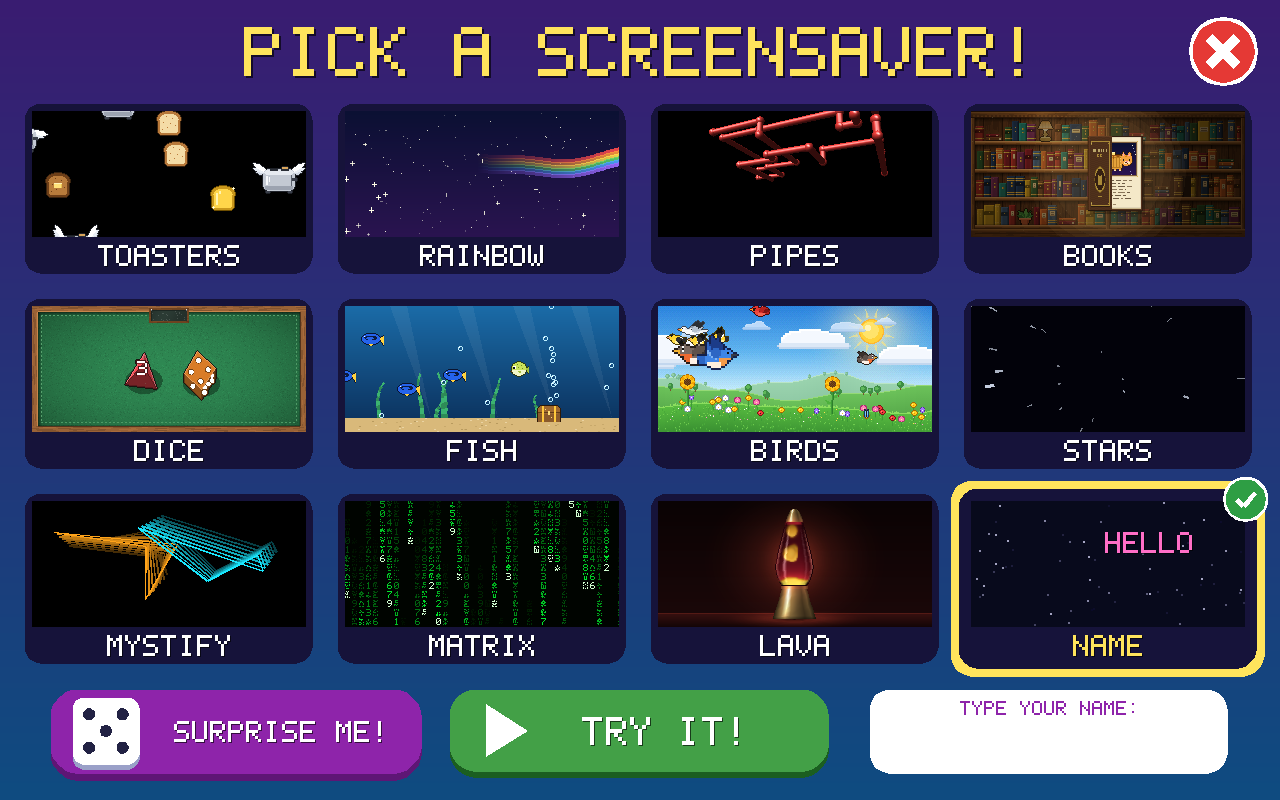
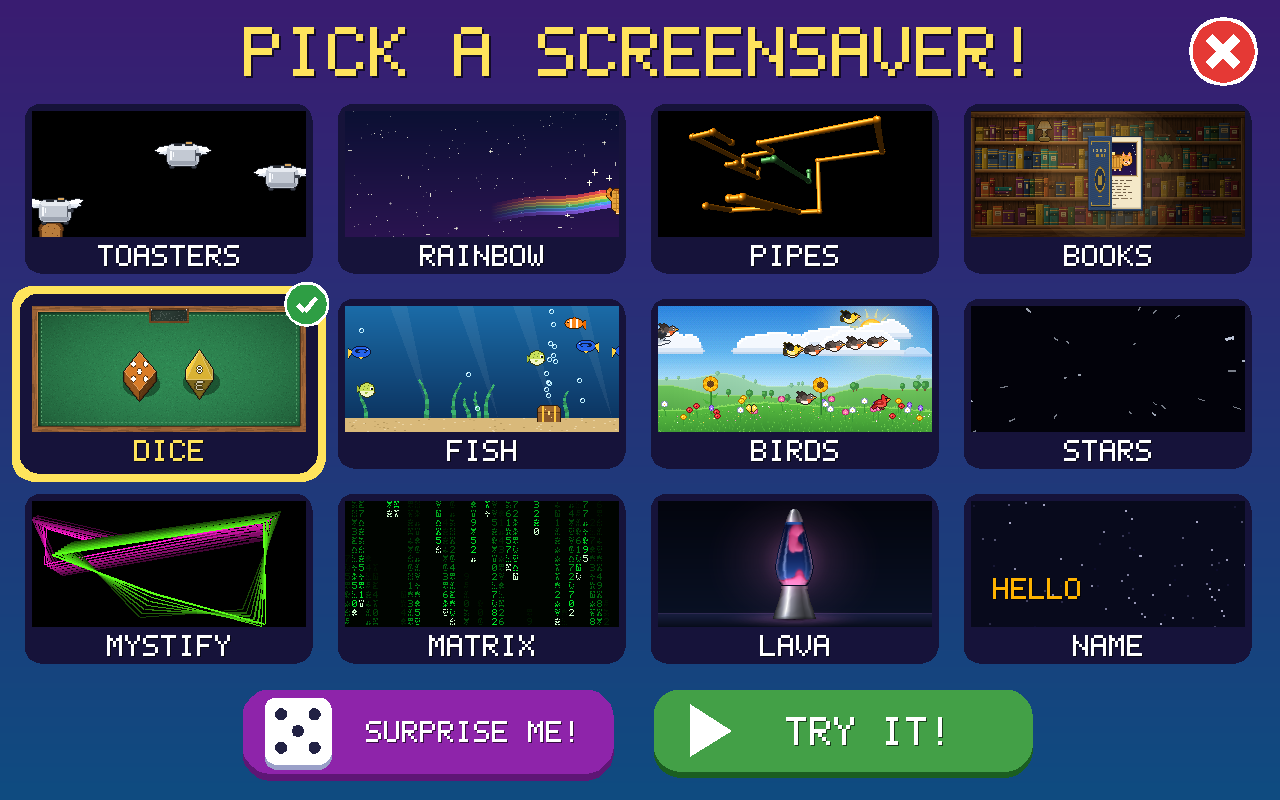
DICE: numbers and pips printed on the faces, numbered like real dice
Numbers and pips used to be flat stickers drawn over the die. Now each face
maps its print through its own tilted axes, so it foreshortens and tumbles with
the die, and fades into the face colour as the face turns away instead of
popping in and out. A die at rest turns its number exactly upright and draws it
as crisp whole pixels.

Faces are numbered like real dice: opposite faces add up to sides + 1.

The d4 sits out: a real d4 prints three numbers per face, two of them sideways
or upside down, and at this pixel size those read as squiggles.

diff --git a/src/savers/dice.c b/src/savers/dice.c
@@ -1,4 +1,4 @@
-/* DICE: a felt dice tray with true 3D polyhedral dice (d4, d6, d8, d10, d12, d20).
+/* DICE: a felt dice tray with true 3D polyhedral dice (d6, d8, d10, d12, d20).
    The dice tumble and bounce in 3D across the felt one at a time, each landing
    cleanly to show its roll. Then, with deliberate pauses so a six-year-old has time
    to calculate and frontrun the math, each result flies up to the chalkboard.
@@ -27,13 +27,15 @@ static const uint32_t BODY[KINDS] = { 0xF0464E, 0xFF9230, 0xFFD23C, 0x26C6BE, 0x
 static const uint32_t CONFETTI[6] = { 0xFF5A6E, 0xFFD23C, 0x5BD46B, 0x4DA6FF, 0xC98BFF, 0xFFFFFF };
 static const float BOUNCE[NB] = { 0.28f, 0.52f, 0.70f, 0.83f, 0.93f };
 
-/* Handfuls of dice, prominently featuring d4 and varying sets. */
+/* Handfuls of dice (the first is always the first roll). The d4 still has a model but
+   sits out: a real d4 prints three numbers per face, two of them sideways or upside
+   down, and at this pixel size those read as squiggles. */
 static const int SETS[][MAXDICE + 1] = {
-    { 2, D4, D6 }, { 1, D20 }, { 2, D6, D6 }, { 3, D4, D6, D8 },
-    { 1, D4 }, { 2, D4, D4 }, { 2, D8, D12 }, { 1, D12 },
+    { 2, D6, D8 }, { 1, D20 }, { 2, D6, D6 }, { 3, D6, D8, D10 },
+    { 1, D6 }, { 2, D8, D8 }, { 2, D8, D12 }, { 1, D12 },
     { 2, D10, D10 }, { 1, D20 }, { 2, D6, D20 }, { 1, D10 },
     { 3, D6, D6, D6 }, { 3, D6, D8, D20 }, { 2, D20, D20 },
-    { 6, D4, D6, D8, D10, D12, D20 }
+    { 5, D6, D8, D10, D12, D20 }
 };
 #define NSETS ((int)(sizeof SETS / sizeof SETS[0]))
 
@@ -150,6 +152,8 @@ typedef struct {
     int idx[MAX_FACE_VERTS];
     int value;
     Vec3 normal;
+    Vec3 c, up, right;   /* centre and in-plane axes the face's number or pips are printed on */
+    float ri;            /* distance from the centre to the nearest edge */
 } PolyFace;
 
 typedef struct {
@@ -178,6 +182,30 @@ static void init_poly_mesh(PolyMesh *m) {
             n = v_scale(n, -1.0f);
         }
         fc->normal = n;
+        fc->c = c;
+        fc->up = v_norm(v_sub(m->verts[fc->idx[0]], c));
+        fc->right = v_cross(n, fc->up);
+        fc->ri = 1e9f;
+        for (int i = 0; i < fc->nverts; i++) {
+            Vec3 a = m->verts[fc->idx[i]], b = m->verts[fc->idx[(i + 1) % fc->nverts]];
+            float dist = v_len(v_cross(v_norm(v_sub(b, a)), v_sub(c, a)));
+            if (dist < fc->ri) fc->ri = dist;
+        }
+    }
+}
+
+/* Numbers the faces like real dice: opposite faces add up to sides + 1 (7 on a d6,
+   21 on a d20). Called after init_poly_mesh, which knows the face normals. */
+static void number_opposites(PolyMesh *m) {
+    int next = 1, done[MAX_POLY_FACES] = { 0 };
+    for (int f = 0; f < m->nfaces; f++) {
+        if (done[f]) continue;
+        int o = f;
+        for (int g = 0; g < m->nfaces; g++)
+            if (v_dot(m->faces[g].normal, m->faces[f].normal) < v_dot(m->faces[o].normal, m->faces[f].normal)) o = g;
+        m->faces[f].value = next;
+        m->faces[o].value = m->nfaces + 1 - next++;
+        done[f] = done[o] = 1;
     }
 }
 
@@ -248,6 +276,7 @@ static PolyMesh build_d8(void) {
         for (int j = 0; j < 3; j++) m.faces[i].idx[j] = fidx[i][j];
     }
     init_poly_mesh(&m);
+    number_opposites(&m);
     return m;
 }
 
@@ -268,10 +297,11 @@ static PolyMesh build_d10(void) {
     for (int k = 0; k < 5; k++) {
         int k1 = (k + 1) % 5;
         PolyFace *top = &m.faces[k * 2], *bot = &m.faces[k * 2 + 1];
-        *top = (PolyFace){ 4, { 0, 2 + k, 7 + k, 2 + k1 }, 2 * k + 1, {0} };
-        *bot = (PolyFace){ 4, { 1, 7 + k, 2 + k1, 7 + k1 }, 2 * k + 2, {0} };
+        *top = (PolyFace){ .nverts = 4, .idx = { 0, 2 + k, 7 + k, 2 + k1 }, .value = 2 * k + 1 };
+        *bot = (PolyFace){ .nverts = 4, .idx = { 1, 7 + k, 2 + k1, 7 + k1 }, .value = 2 * k + 2 };
     }
     init_poly_mesh(&m);
+    number_opposites(&m);
     return m;
 }
 
@@ -337,6 +367,7 @@ static PolyMesh build_d12(void) {
         for (int i = 0; i < 5; i++) m.faces[f].idx[i] = cverts[i];
     }
     init_poly_mesh(&m);
+    number_opposites(&m);
     return m;
 }
 
@@ -379,6 +410,7 @@ static PolyMesh build_d20(void) {
         for (int j = 0; j < 3; j++) m.faces[i].idx[j] = fidx[i][j];
     }
     init_poly_mesh(&m);
+    number_opposites(&m);
     return m;
 }
 
@@ -473,35 +505,13 @@ static void glyphs(Canvas *c, const char *s, int x, int y, int sc, uint32_t col)
 
 static int glyphs_w(const char *s, int sc) { int n = (int)strlen(s); return n ? n * (FONT_W + 1) * sc - sc : 0; }
 
-static void number(Canvas *c, int v, float cx, float cy, int sc, uint32_t base, uint32_t ink) {
-    char s[4];
-    snprintf(s, sizeof s, "%d", v);
-    int w = glyphs_w(s, sc), x = (int)floorf(cx - w / 2.0f + 0.5f), y = (int)floorf(cy - FONT_H * sc / 2.0f + 0.5f);
-    uint32_t dark = rgb(shade(base, 0.28f));
-    int bar = v == 6 || v == 9, by = y + FONT_H * sc + 1;
-    for (int dy = -1; dy <= 1; dy++)
-        for (int dx = -1; dx <= 1; dx++) {
-            glyphs(c, s, x + dx, y + dy, sc, dark);
-            if (bar) fill_rect(c, x + dx, by + dy, x + w - 1 + dx, by + dy, dark);
-        }
-    glyphs(c, s, x, y + 1, sc, rgb(ink == 0xFFFFFF ? shade(base, 0.55f) : 0xB07A10));
-    glyphs(c, s, x, y, sc, rgb(ink));
-    if (bar) fill_rect(c, x, by, x + w - 1, by, rgb(ink));
-}
-
-static void draw_pip(Canvas *c, float cx, float cy, float r, uint32_t base, uint32_t ink) {
-    fill_ellipse(c, cx, cy, r + 0.8f, r + 0.8f, rgb(shade(base, 0.45f)));
-    fill_ellipse(c, cx, cy, r, r, rgb(ink));
-    put(c, (int)(cx - r * 0.35f), (int)(cy - r * 0.35f), rgb(lit(ink, 1.4f)));
-}
-
 /* ---------- 3D die rendering ---------- */
 
 /* Screen y = y - 0.85 z, so faces whose normal points along (0, 0.85, 1) face the
    viewer. Dice come to rest with the rolled face pointing at REST: mostly up, tipped
-   a little toward the viewer so the top reads clearly. The label always goes on the
-   face (or, for the d4, the corner) that points most along REST, so what you see
-   while tumbling is a fair peek and what you see at rest is exactly the roll. */
+   a little toward the viewer so the top reads clearly, turned so its number is upright.
+   Numbers and pips are printed on the faces themselves: each face maps a little bitmap
+   through its own tilted axes, so they foreshorten and tumble with the die. */
 static Vec3 rest_dir(void) { return v_norm(vec3(0, 0.38f, 1.0f)); }
 
 static const float PIPS[7][6][2] = {
@@ -513,6 +523,91 @@ static const float PIPS[7][6][2] = {
     {{-0.55f, -0.55f}, {0.55f, -0.55f}, {0, 0}, {-0.55f, 0.55f}, {0.55f, 0.55f}},
     {{-0.55f, -0.55f}, {0.55f, -0.55f}, {-0.55f, 0}, {0.55f, 0}, {-0.55f, 0.55f}, {0.55f, 0.55f}},
 };
+
+/* Where a model-space direction lands on screen (in canvas pixels per unit). */
+static void to_screen(const Die *e, float R, Vec3 v, float *x, float *y) {
+    Vec3 w = mat3_mul_v(e->orient, v);
+    *x = w.x * R;
+    *y = (w.y - 0.85f * w.z) * R;
+}
+
+/* Paints a mask (0 nothing, 1 rim, 2 ink) centred on (ox, oy). One mask pixel steps by
+   (ax, ay) across and (bx, by) down, so the bitmap lies flat on a tilted face. */
+static void paint_on_face(Canvas *c, const unsigned char *mask, int mw, int mh, float ox, float oy,
+                          float ax, float ay, float bx, float by, uint32_t rim, uint32_t ink) {
+    float det = ax * by - ay * bx;
+    if (fabsf(det) < 0.05f) return;  /* seen edge-on */
+    float hw = mw * 0.5f, hh = mh * 0.5f, x0 = 1e9f, y0 = 1e9f, x1 = -1e9f, y1 = -1e9f;
+    for (int k = 0; k < 4; k++) {
+        float u = k & 1 ? hw : -hw, v = k & 2 ? hh : -hh, px = ox + ax * u + bx * v, py = oy + ay * u + by * v;
+        x0 = fminf(x0, px); x1 = fmaxf(x1, px); y0 = fminf(y0, py); y1 = fmaxf(y1, py);
+    }
+    for (int y = (int)floorf(y0); y <= (int)ceilf(y1); y++)
+        for (int x = (int)floorf(x0); x <= (int)ceilf(x1); x++) {
+            float dx = x + 0.5f - ox, dy = y + 0.5f - oy;
+            int i = (int)floorf((dx * by - dy * bx) / det + hw), j = (int)floorf((ax * dy - ay * dx) / det + hh);
+            if (i < 0 || j < 0 || i >= mw || j >= mh || !mask[j * mw + i]) continue;
+            put(c, x, y, rgb(mask[j * mw + i] == 2 ? ink : rim));
+        }
+}
+
+/* A number printed on a face: centre p, text axes right/up (model space), mask pixel size px. */
+static void face_number(Dice *d, const Die *e, float ox, float oy, Vec3 right, Vec3 up, float px,
+                        int value, uint32_t face, uint32_t ink, float a) {
+    uint32_t rim = mixc(face, shade(face, 0.42f), a);
+    ink = mixc(face, ink, a);
+    char s[4];
+    snprintf(s, sizeof s, "%d", value);
+    int bar = value == 6 || value == 9, tw = glyphs_w(s, 1), th = FONT_H + (bar ? 2 : 0);
+    int mw = tw + 2, mh = th + 2;
+    unsigned char mask[16 * 13] = { 0 };
+    for (int k = 0; s[k]; k++) {
+        const char *const *g = font_glyph(s[k]);
+        for (int j = 0; g && j < FONT_H; j++)
+            for (int i = 0; i < FONT_W; i++)
+                if (g[j][i] == '#') mask[(j + 1) * mw + k * (FONT_W + 1) + i + 1] = 2;
+    }
+    if (bar) for (int i = 0; i < tw; i++) mask[th * mw + i + 1] = 2;   /* 6. and 9. */
+    for (int j = 0; j < mh; j++)
+        for (int i = 0; i < mw; i++)
+            if (!mask[j * mw + i] && ((i > 0 && mask[j * mw + i - 1] == 2) || (i < mw - 1 && mask[j * mw + i + 1] == 2) ||
+                                      (j > 0 && mask[(j - 1) * mw + i] == 2) || (j < mh - 1 && mask[(j + 1) * mw + i] == 2)))
+                mask[j * mw + i] = 1;
+    float ax, ay, bx, by, R = (float)d->R;
+    to_screen(e, R, v_scale(right, px), &ax, &ay);
+    to_screen(e, R, v_scale(up, -px), &bx, &by);
+    if (ax > 0 && by > 0 && fabsf(ay) < 0.1f * ax && fabsf(bx) < 0.1f * by) {
+        /* Square on to the viewer (a die at rest): draw it as crisp whole pixels. */
+        int sc = (int)lroundf(fminf(ax, by)), x0, y0;
+        if (sc < 1) sc = 1;
+        x0 = (int)lroundf(ox - mw * sc / 2.0f);
+        y0 = (int)lroundf(oy - mh * sc / 2.0f);
+        for (int j = 0; j < mh; j++)
+            for (int i = 0; i < mw; i++)
+                if (mask[j * mw + i])
+                    fill_rect(&d->top, x0 + i * sc, y0 + j * sc, x0 + i * sc + sc - 1, y0 + j * sc + sc - 1,
+                              rgb(mask[j * mw + i] == 2 ? ink : rim));
+        return;
+    }
+    paint_on_face(&d->top, mask, mw, mh, ox, oy, ax, ay, bx, by, rim, ink);
+}
+
+/* A pip: a disc on the face at (u, v) in the face's own units, with a dark rim. */
+static void face_pip(Dice *d, const Die *e, float ox, float oy, const PolyFace *fc, float u, float v, uint32_t face, float a) {
+    float R = (float)d->R, Ax, Ay, Bx, By;
+    to_screen(e, R, v_scale(fc->right, fc->ri), &Ax, &Ay);
+    to_screen(e, R, v_scale(fc->up, -fc->ri), &Bx, &By);
+    float det = Ax * By - Ay * Bx;
+    if (fabsf(det) < 0.5f) return;
+    float pcx = ox + Ax * u + Bx * v, pcy = oy + Ay * u + By * v, ext = 0.3f * (fabsf(Ax) + fabsf(Bx) + fabsf(Ay) + fabsf(By));
+    for (int y = (int)floorf(pcy - ext); y <= (int)ceilf(pcy + ext); y++)
+        for (int x = (int)floorf(pcx - ext); x <= (int)ceilf(pcx + ext); x++) {
+            float dx = x + 0.5f - pcx, dy = y + 0.5f - pcy;
+            float lu = (dx * By - dy * Bx) / det, lv = (Ax * dy - Ay * dx) / det, q = lu * lu + lv * lv;
+            if (q < 0.19f * 0.19f) put(&d->top, x, y, rgb(mixc(face, 0xFFFFFF, a)));
+            else if (q < 0.26f * 0.26f) put(&d->top, x, y, rgb(mixc(face, shade(face, 0.45f), a)));
+        }
+}
 
 static void draw_3d_die(Dice *d, const Die *e, float cx, float cy) {
     const PolyMesh *m = &d->mesh[e->kind];
@@ -556,18 +651,15 @@ static void draw_3d_die(Dice *d, const Die *e, float cx, float cy) {
         for (int j = i + 1; j < nvis; j++)
             if (vis[j].d < vis[i].d) { VisFace t = vis[i]; vis[i] = vis[j]; vis[j] = t; }
 
-    /* Which face (or d4 corner) points most along REST: that's the number to show. */
+    /* The face pointing most along REST is the roll (it gets the gold ink on a natural 20). */
     Vec3 up = rest_dir();
-    int topf = 0, topv = 0;
-    float bf = -2, bv = -2;
+    int topf = 0;
+    float bf = -2;
     for (int f = 0; f < m->nfaces; f++) {
         float k = v_dot(mat3_mul_v(e->orient, m->faces[f].normal), up);
         if (k > bf) { bf = k; topf = f; }
     }
-    for (int i = 0; i < m->nverts; i++) {
-        float k = v_dot(mat3_mul_v(e->orient, v_norm(m->verts[i])), up);
-        if (k > bv) { bv = k; topv = i; }
-    }
+    float ocx = cx, ocy = cy - e->z * 0.85f;
 
     Vec3 light = v_norm(vec3(-0.5f, -0.6f, 0.8f));
     uint32_t base = BODY[e->kind];
@@ -595,35 +687,37 @@ static void draw_3d_die(Dice *d, const Die *e, float cx, float cy) {
             draw_line(&d->top, (int)fx[i], (int)fy[i], (int)fx[j], (int)fy[j], rgb(edge_col));
         }
 
-        /* Pips on d6 */
-        if (e->kind == D6 && fc->nverts == 4) {
-            if (vis[vi].view > 0.12f) {
-                int val = fc->value;
-                float pr = R * 0.13f;
-                if (pr < 1.0f) pr = 1.0f;
-                for (int p = 0; p < val; p++) {
-                    float u = PIPS[val][p][0], v = PIPS[val][p][1];
-                    float px = 0.25f * ((1 - u) * (1 - v) * fx[0] + (1 + u) * (1 - v) * fx[1] +
-                                        (1 + u) * (1 + v) * fx[2] + (1 - u) * (1 + v) * fx[3]);
-                    float py = 0.25f * ((1 - u) * (1 - v) * fy[0] + (1 + u) * (1 - v) * fy[1] +
-                                        (1 + u) * (1 + v) * fy[2] + (1 - u) * (1 + v) * fy[3]);
-                    draw_pip(&d->top, px, py, pr, base, 0xFFFFFF);
-                }
+        /* Print the face: pips on the d6, a number by each corner on the d4 (the top
+           corner's number is the roll, as on a real d4), one number in the middle on the
+           rest. Every face always carries the same print; as a face turns away its print
+           fades into the face colour (squashed pixel digits read as noise), so nothing
+           pops in or out. */
+        float facing = v_dot(nrot, v_norm(vec3(0, 0.85f, 1)));
+        float lo = e->kind == D6 ? 0.2f : e->kind == D4 ? 0.15f : 0.45f;
+        float ink_a = ease((facing - lo) / 0.3f);
+        if (ink_a < 0.04f) continue;
+        float fcx, fcy;
+        to_screen(e, R, fc->c, &fcx, &fcy);
+        fcx += ocx; fcy += ocy;
+        if (e->kind == D6) {
+            for (int p = 0; p < fc->value; p++)
+                face_pip(d, e, fcx, fcy, fc, PIPS[fc->value][p][0], PIPS[fc->value][p][1], col, ink_a);
+        } else if (e->kind == D4) {
+            for (int k = 0; k < 3; k++) {
+                Vec3 vtx = m->verts[fc->idx[k]], toward = v_norm(v_sub(vtx, fc->c));
+                Vec3 at = v_add(fc->c, v_scale(v_sub(vtx, fc->c), 0.5f));
+                float px, py;
+                to_screen(e, R, at, &px, &py);
+                face_number(d, e, px + ocx, py + ocy, v_cross(fc->normal, toward), toward,
+                            fc->ri * 0.95f / FONT_H, fc->idx[k] + 1, col, 0xFFFFFF, ink_a);
             }
-        } else if (e->kind != D4 && f == topf) {
-            float mcx = 0, mcy = 0;
-            for (int i = 0; i < fc->nverts; i++) { mcx += fx[i]; mcy += fy[i]; }
-            mcx /= fc->nverts; mcy /= fc->nverts;
-            int sc = (R >= 16 && fc->value < 10) ? 2 : 1;
-            uint32_t ink = (e->kind == D20 && fc->value == 20 && e->settled) ? 0xFFE04A : 0xFFFFFF;
-            number(&d->top, fc->value, mcx, mcy, sc, col, ink);
+        } else {
+            char s[4];
+            snprintf(s, sizeof s, "%d", fc->value);
+            float tw = (float)glyphs_w(s, 1), px = fminf(1.3f * fc->ri / FONT_H, 1.75f * fc->ri / tw);
+            uint32_t ink = (e->kind == D20 && fc->value == 20 && e->settled && f == topf) ? 0xFFE04A : 0xFFFFFF;
+            face_number(d, e, fcx, fcy, fc->right, fc->up, px, fc->value, col, ink, ink_a);
         }
-    }
-    /* A d4 is read at its top corner. That corner points at the viewer, so one number
-       sits right on it (drawing it on each face around the corner reads as "44"). */
-    if (e->kind == D4) {
-        float px = lerp(cx, sx[topv], 0.55f), py = lerp(cy - e->z * 0.85f, sy[topv], 0.55f);
-        number(&d->top, topv + 1, px, py, R >= 16 ? 2 : 1, base, 0xFFFFFF);
     }
 }
 
@@ -707,8 +801,34 @@ static Quat compute_target_orientation(const PolyMesh *m, int kind, int value) {
         for (int f = 0; f < m->nfaces; f++)
             if (m->faces[f].value == value) { n = m->faces[f].normal; break; }
     Vec3 up = rest_dir();
-    Quat spin = quat_axis_angle(up, frand(0, 2 * PI_F));  /* so two 8s don't look identical */
-    return quat_norm(quat_mul(spin, orient_face_to(n, up)));
+    if (kind == D4) {
+        /* A d4 sits flat on the felt with the rolled corner straight up, one face turned
+           toward the viewer so the number near that corner reads upright. */
+        Vec3 z = vec3(0, 0, 1);
+        Quat align = orient_face_to(n, z);
+        Mat3 a = quat_to_mat3(align);
+        const PolyFace *front = &m->faces[0];
+        for (int f = 0; f < m->nfaces; f++) {
+            int has = 0;
+            for (int i = 0; i < 3; i++) has |= m->faces[f].idx[i] == value - 1;
+            if (has) { front = &m->faces[f]; break; }
+        }
+        Vec3 fn = mat3_mul_v(a, front->normal);
+        float turn = atan2f(fn.x, fn.y) + frand(-0.3f, 0.3f);   /* swing its normal round to +y */
+        return quat_norm(quat_mul(quat_axis_angle(z, turn), align));
+    }
+    Quat align = orient_face_to(n, up);
+    float turn;
+    {
+        /* Turn the rolled face's number exactly upright (its "up" pointing away from the
+           viewer): even a slight tilt makes pixel digits jagged. */
+        const PolyFace *fc = &m->faces[0];
+        for (int f = 0; f < m->nfaces; f++) if (m->faces[f].value == value) fc = &m->faces[f];
+        Vec3 u1 = mat3_mul_v(quat_to_mat3(align), fc->up), away = vec3(0, -1, 0);
+        away = v_norm(v_sub(away, v_scale(up, v_dot(away, up))));
+        turn = atan2f(v_dot(v_cross(u1, away), up), v_dot(u1, away));
+    }
+    return quat_norm(quat_mul(quat_axis_angle(up, turn), align));
 }
 
 static void new_roll(Dice *d) {

diff --git a/README.md b/README.md
@@ -45,7 +45,7 @@ Twelve screensavers, plus a SURPRISE ME button that picks a random one each time
 - **RAINBOW**: the Waffle Cat flies across the night sky on a wavy rainbow. Every so often it shimmers, goes *poof*, rainbow lines zoom across the screen, and it pops back out at the end of the rainbow. (Invented by a six-year-old.)
 - **PIPES**: shiny 3D pipes grow through a grid, then fade and start again.
 - **BOOKS**: a cozy lamplit bookshelf. Books slide out, float to the middle, open to a little animated picture, and fly back to their spot.
-- **DICE**: 3D dice (d4, d6, d8, d10, d12 and d20) tumble onto a felt tray one at a time. Then each number flies up to a chalkboard, slowly enough for a kid to add them up first. A natural 20 on the d20 gets gold rays, confetti and "CRIT!"; a natural 1 gets a grumpy rain cloud.
+- **DICE**: 3D dice (d6, d8, d10, d12 and d20) tumble onto a felt tray one at a time. Then each number flies up to a chalkboard, slowly enough for a kid to add them up first. A natural 20 on the d20 gets gold rays, confetti and "CRIT!"; a natural 1 gets a grumpy rain cloud.
 - **FISH**: clownfish, a blue tang, a pufferfish, seaweed and a bubbling treasure chest.
 - **BIRDS**: a sunny summer sky with bluebirds, cardinals, finches and robins flying over a flower meadow. (Also requested by a six-year-old.)
 - **STARS**: a warp-speed starfield.
